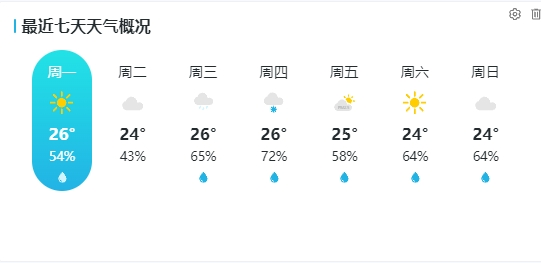
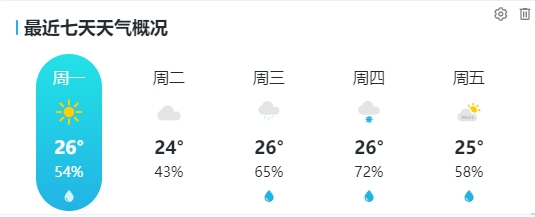
fix: Modify weather overview display content

diff --git a/src/typings/components.d.ts b/src/typings/components.d.ts
@@ -27,8 +27,6 @@ declare module 'vue' {
     IconAntDesignReloadOutlined: typeof import('~icons/ant-design/reload-outlined')['default']
     IconGridiconsFullscreen: typeof import('~icons/gridicons/fullscreen')['default']
     IconGridiconsFullscreenExit: typeof import('~icons/gridicons/fullscreen-exit')['default']
-    'IconMaterialSymbols:contractEditOutline': typeof import('~icons/material-symbols/contract-edit-outline')['default']
-    'IconMaterialSymbols:deleteOutline': typeof import('~icons/material-symbols/delete-outline')['default']
     IconSelect: typeof import('./../components/custom/icon-select.vue')['default']
     ImageVerify: typeof import('./../components/custom/image-verify.vue')['default']
     JsonToForm: typeof import('./../components/json-to-form/index.vue')['default']
@@ -39,10 +37,13 @@ declare module 'vue' {
     NBreadcrumb: typeof import('naive-ui')['NBreadcrumb']
     NBreadcrumbItem: typeof import('naive-ui')['NBreadcrumbItem']
     NButton: typeof import('naive-ui')['NButton']
+    NButtonGroup: typeof import('naive-ui')['NButtonGroup']
     NCard: typeof import('naive-ui')['NCard']
     NCheckbox: typeof import('naive-ui')['NCheckbox']
+    NCode: typeof import('naive-ui')['NCode']
     NColorPicker: typeof import('naive-ui')['NColorPicker']
     NCountdown: typeof import('naive-ui')['NCountdown']
+    NDataTable: typeof import('naive-ui')['NDataTable']
     NDialogProvider: typeof import('naive-ui')['NDialogProvider']
     NDivider: typeof import('naive-ui')['NDivider']
     NDrawer: typeof import('naive-ui')['NDrawer']
@@ -55,6 +56,7 @@ declare module 'vue' {
     NFormItem: typeof import('naive-ui')['NFormItem']
     NGi: typeof import('naive-ui')['NGi']
     NGrid: typeof import('naive-ui')['NGrid']
+    NGridItem: typeof import('naive-ui')['NGridItem']
     NIcon: typeof import('naive-ui')['NIcon']
     NImage: typeof import('naive-ui')['NImage']
     NInput: typeof import('naive-ui')['NInput']
@@ -66,18 +68,25 @@ declare module 'vue' {
     NNotificationProvider: typeof import('naive-ui')['NNotificationProvider']
     NPagination: typeof import('naive-ui')['NPagination']
     NPopconfirm: typeof import('naive-ui')['NPopconfirm']
-    NPopselect: typeof import('naive-ui')['NPopselect']
     NRadioButton: typeof import('naive-ui')['NRadioButton']
     NRadioGroup: typeof import('naive-ui')['NRadioGroup']
     NResult: typeof import('naive-ui')['NResult']
     NScrollbar: typeof import('naive-ui')['NScrollbar']
     NSelect: typeof import('naive-ui')['NSelect']
     NSpace: typeof import('naive-ui')['NSpace']
+    NSpin: typeof import('naive-ui')['NSpin']
+    NStep: typeof import('naive-ui')['NStep']
+    NSteps: typeof import('naive-ui')['NSteps']
     NSwitch: typeof import('naive-ui')['NSwitch']
     NTab: typeof import('naive-ui')['NTab']
     NTabPane: typeof import('naive-ui')['NTabPane']
     NTabs: typeof import('naive-ui')['NTabs']
+    NTag: typeof import('naive-ui')['NTag']
     NTooltip: typeof import('naive-ui')['NTooltip']
+    NTransfer: typeof import('naive-ui')['NTransfer']
+    NUpload: typeof import('naive-ui')['NUpload']
+    NUploadDragger: typeof import('naive-ui')['NUploadDragger']
+    NUploadTrigger: typeof import('naive-ui')['NUploadTrigger']
     PanelManage: typeof import('./../components/panel/panel-manage.vue')['default']
     PinToggler: typeof import('./../components/common/pin-toggler.vue')['default']
     ReloadButton: typeof import('./../components/common/reload-button.vue')['default']

diff --git a/src/card/builtin-card/recent-weather/component.vue b/src/card/builtin-card/recent-weather/component.vue
@@ -51,21 +51,21 @@ const weatherList: WeatherItem[] = reactive([
     humidity: '58%',
     text: $t('dashboard_panel.cardName.week.fri'),
     icons: 'yin'
-  },
-  {
-    id: '5',
-    temperature: '24°',
-    humidity: '64%',
-    text: $t('dashboard_panel.cardName.week.sat'),
-    icons: 'sunlight'
-  },
-  {
-    id: '6',
-    temperature: '24°',
-    humidity: '64%',
-    text: $t('dashboard_panel.cardName.week.sun'),
-    icons: 'cloudy'
   }
+  // {
+  //   id: '5',
+  //   temperature: '24°',
+  //   humidity: '64%',
+  //   text: $t('dashboard_panel.cardName.week.sat'),
+  //   icons: 'sunlight'
+  // },
+  // {
+  //   id: '6',
+  //   temperature: '24°',
+  //   humidity: '64%',
+  //   text: $t('dashboard_panel.cardName.week.sun'),
+  //   icons: 'cloudy'
+  // }
 ]);
 </script>
 

diff --git a/src/components/panel/builtin-card/recent-weather/component.vue b/src/components/panel/builtin-card/recent-weather/component.vue
@@ -51,21 +51,21 @@ const weatherList: WeatherItem[] = reactive([
     humidity: '58%',
     text: $t('dashboard_panel.cardName.week.fri'),
     icons: 'yin'
-  },
-  {
-    id: '5',
-    temperature: '24°',
-    humidity: '64%',
-    text: $t('dashboard_panel.cardName.week.sat'),
-    icons: 'sunlight'
-  },
-  {
-    id: '6',
-    temperature: '24°',
-    humidity: '64%',
-    text: $t('dashboard_panel.cardName.week.sun'),
-    icons: 'cloudy'
   }
+  // {
+  //   id: '5',
+  //   temperature: '24°',
+  //   humidity: '64%',
+  //   text: $t('dashboard_panel.cardName.week.sat'),
+  //   icons: 'sunlight'
+  // },
+  // {
+  //   id: '6',
+  //   temperature: '24°',
+  //   humidity: '64%',
+  //   text: $t('dashboard_panel.cardName.week.sun'),
+  //   icons: 'cloudy'
+  // }
 ]);
 </script>
 

diff --git a/src/locales/langs/zh-cn.ts b/src/locales/langs/zh-cn.ts
@@ -621,7 +621,7 @@ const local: App.I18n.Schema = {
       active: '已激活',
       notActive: '未激活',
       activationRate: '激活率',
-      sevenDayWeather: '最近七天天气概况',
+      sevenDayWeather: '最近五天气概况',
       spaceNum: '空间总数',
       areaName: '区域名称',
       corn: '玉米',

diff --git a/src/locales/langs/en-us.ts b/src/locales/langs/en-us.ts
@@ -622,7 +622,7 @@ const local: App.I18n.Schema = {
       active: 'Active',
       notActive: 'NotActive',
       activationRate: 'ActivationRate',
-      sevenDayWeather: 'weatherOverview',
+      sevenDayWeather: 'RecentFiveWeatherOverview',
       spaceNum: 'SpaceNum',
       areaName: 'AreaName',
       corn: 'Corn',
